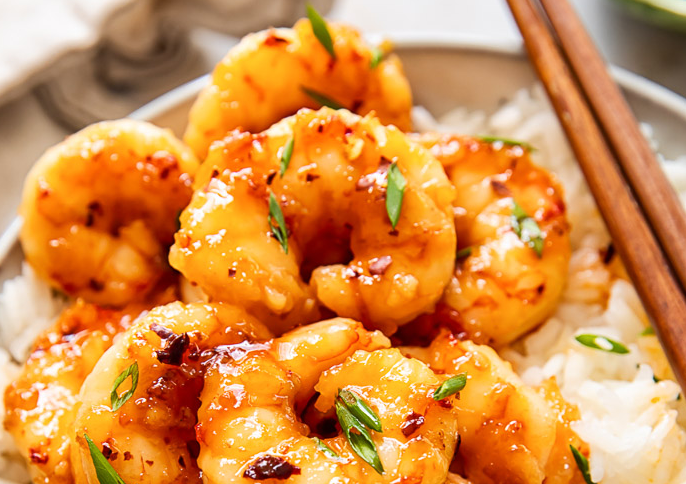
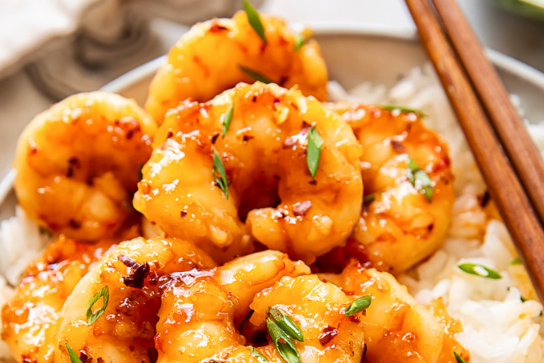
Add second recipe — Apple Bacon

diff --git a/recipes/apple-bacon.html b/recipes/apple-bacon.html
@@ -1,0 +1,58 @@
+<!DOCTYPE html>
+<html lang="en">
+  <head>
+    <meta charset="UTF-8" />
+    <meta http-equiv="X-UA-Compatible" content="IE=edge" />
+    <meta name="viewport" content="width=device-width, initial-scale=1.0" />
+    <title>Apple Bacon</title>
+  </head>
+  <body>
+    <h1>Apple Bacon</h1>
+    <img
+      src="../assets/images/apple-bacon.png"
+      alt="Photo of a cooked Apple Bacon"
+    />
+
+    <h2>Description</h2>
+    <p>
+      A delicious and easy-to-make side dish that is perfect for any occasion.
+      The apples are cooked in a sweet and savory sauce that is made with bacon,
+      onions, and honey. The apples are cooked until they are soft and tender,
+      and the sauce is reduced until it is thick and glossy.
+    </p>
+
+    <h2>Ingredients</h2>
+    <ul>
+      <li>1 pound bacon, chopped</li>
+      <li>1 onion, chopped</li>
+      <li>2 apples, peeled, cored, and sliced</li>
+      <li>1/4 cup honey</li>
+      <li>1/4 cup apple cider vinegar</li>
+      <li>1/4 teaspoon ground cinnamon</li>
+      <li>1/4 teaspoon ground ginger</li>
+      <li>1/4 teaspoon salt</li>
+      <li>1/4 teaspoon black pepper</li>
+    </ul>
+
+    <h2>Steps</h2>
+    <ol>
+      <li>In a large skillet, cook the bacon over medium heat until crisp.</li>
+      <li>
+        Remove the bacon from the skillet, reserving 2 tablespoons of the
+        drippings in the skillet.
+      </li>
+      <li>
+        Add the onion to the skillet and cook until softened, about 5 minutes.
+      </li>
+      <li>
+        Add the apples, honey, apple cider vinegar, cinnamon, ginger, salt, and
+        pepper to the skillet.
+      </li>
+      <li>
+        Bring to a boil, then reduce heat to low and simmer for 15-20 minutes,
+        or until the apples are tender.
+      </li>
+      <li>Stir in the reserved bacon and serve.</li>
+    </ol>
+  </body>
+</html>

diff --git a/recipes/honey-glazed-shrimps.html b/recipes/honey-glazed-shrimps.html
@@ -5,11 +5,6 @@
     <meta http-equiv="X-UA-Compatible" content="IE=edge" />
     <meta name="viewport" content="width=device-width, initial-scale=1.0" />
     <title>Honey-glazed Shrimps</title>
-    <style>
-      img {
-        width: 100%;
-      }
-    </style>
   </head>
   <body>
     <h1>Honey-glazed Shrimps</h1>

diff --git a/index.html b/index.html
@@ -12,6 +12,9 @@
       <li>
         <a href="./recipes/honey-glazed-shrimps.html">Honey-glazed Shrimps</a>
       </li>
+      <li>
+        <a href="./recipes/apple-bacon.html">Apple Bacon</a>
+      </li>
     </ul>
   </body>
 </html>
